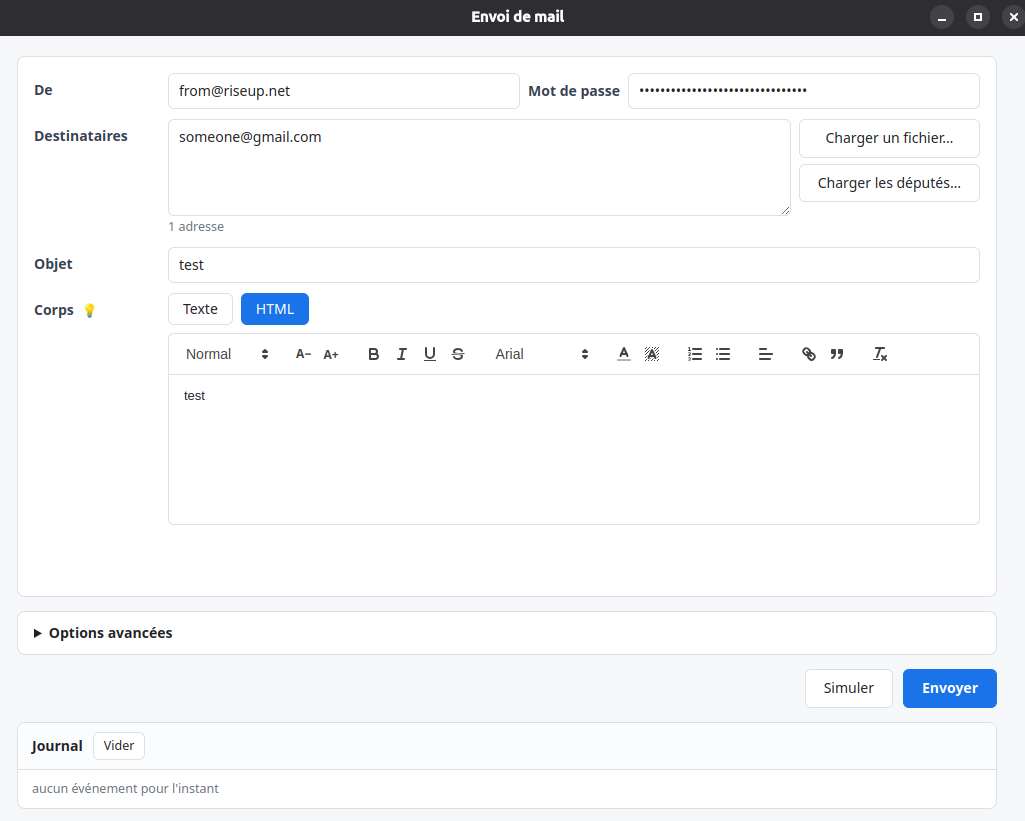
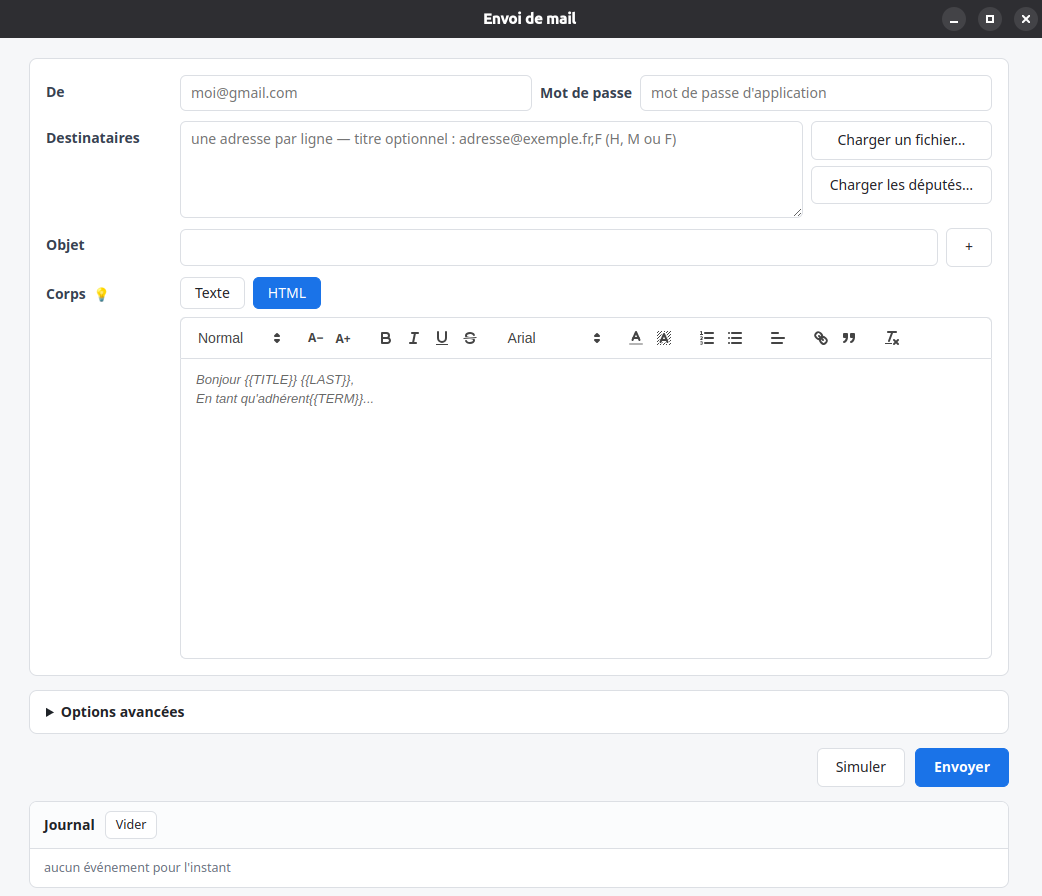
README : nouvelle capture d'ecran, renvoi vers INSTALL.md dans Utilisation
Capture remplacee par une version a jour du formulaire (bouton + sur
Objet, ampoule d'aide sur Corps). Le renvoi vers INSTALL.md, jusqu'ici
seulement en bas de fichier, est deplace dans la section Utilisation ou
il est plus a sa place.

diff --git a/README.md b/README.md
@@ -14,6 +14,9 @@ destinataires — dont, en un clic, les députés de l'Assemblée nationale.
 Rien à installer : tout est dans le dossier dézippé. Garder le dossier entier —
 `dep_harass.exe` a besoin des fichiers qui l'accompagnent pour démarrer.
 
+Pour faire tourner l'application depuis les sources ou reconstruire
+l'exécutable : voir [INSTALL.md](INSTALL.md).
+
 > Au premier lancement, Windows peut afficher un avertissement SmartScreen
 > (« éditeur inconnu ») : c'est normal pour un programme non signé.
 > *Informations complémentaires* → *Exécuter quand même*.
@@ -61,8 +64,3 @@ Le corps du mail accepte des variables, remplacées pour chaque destinataire :
 `{{TITLE}}` et `{{TERM}}` ont besoin d'un genre connu : automatique pour un
 député, sinon en ajoutant une lettre `H`, `M` ou `F` après l'adresse dans le
 champ Destinataires (`adresse@exemple.fr,F`).
-
----
-
-Pour faire tourner l'application depuis les sources ou reconstruire
-l'exécutable : voir [INSTALL.md](INSTALL.md).
